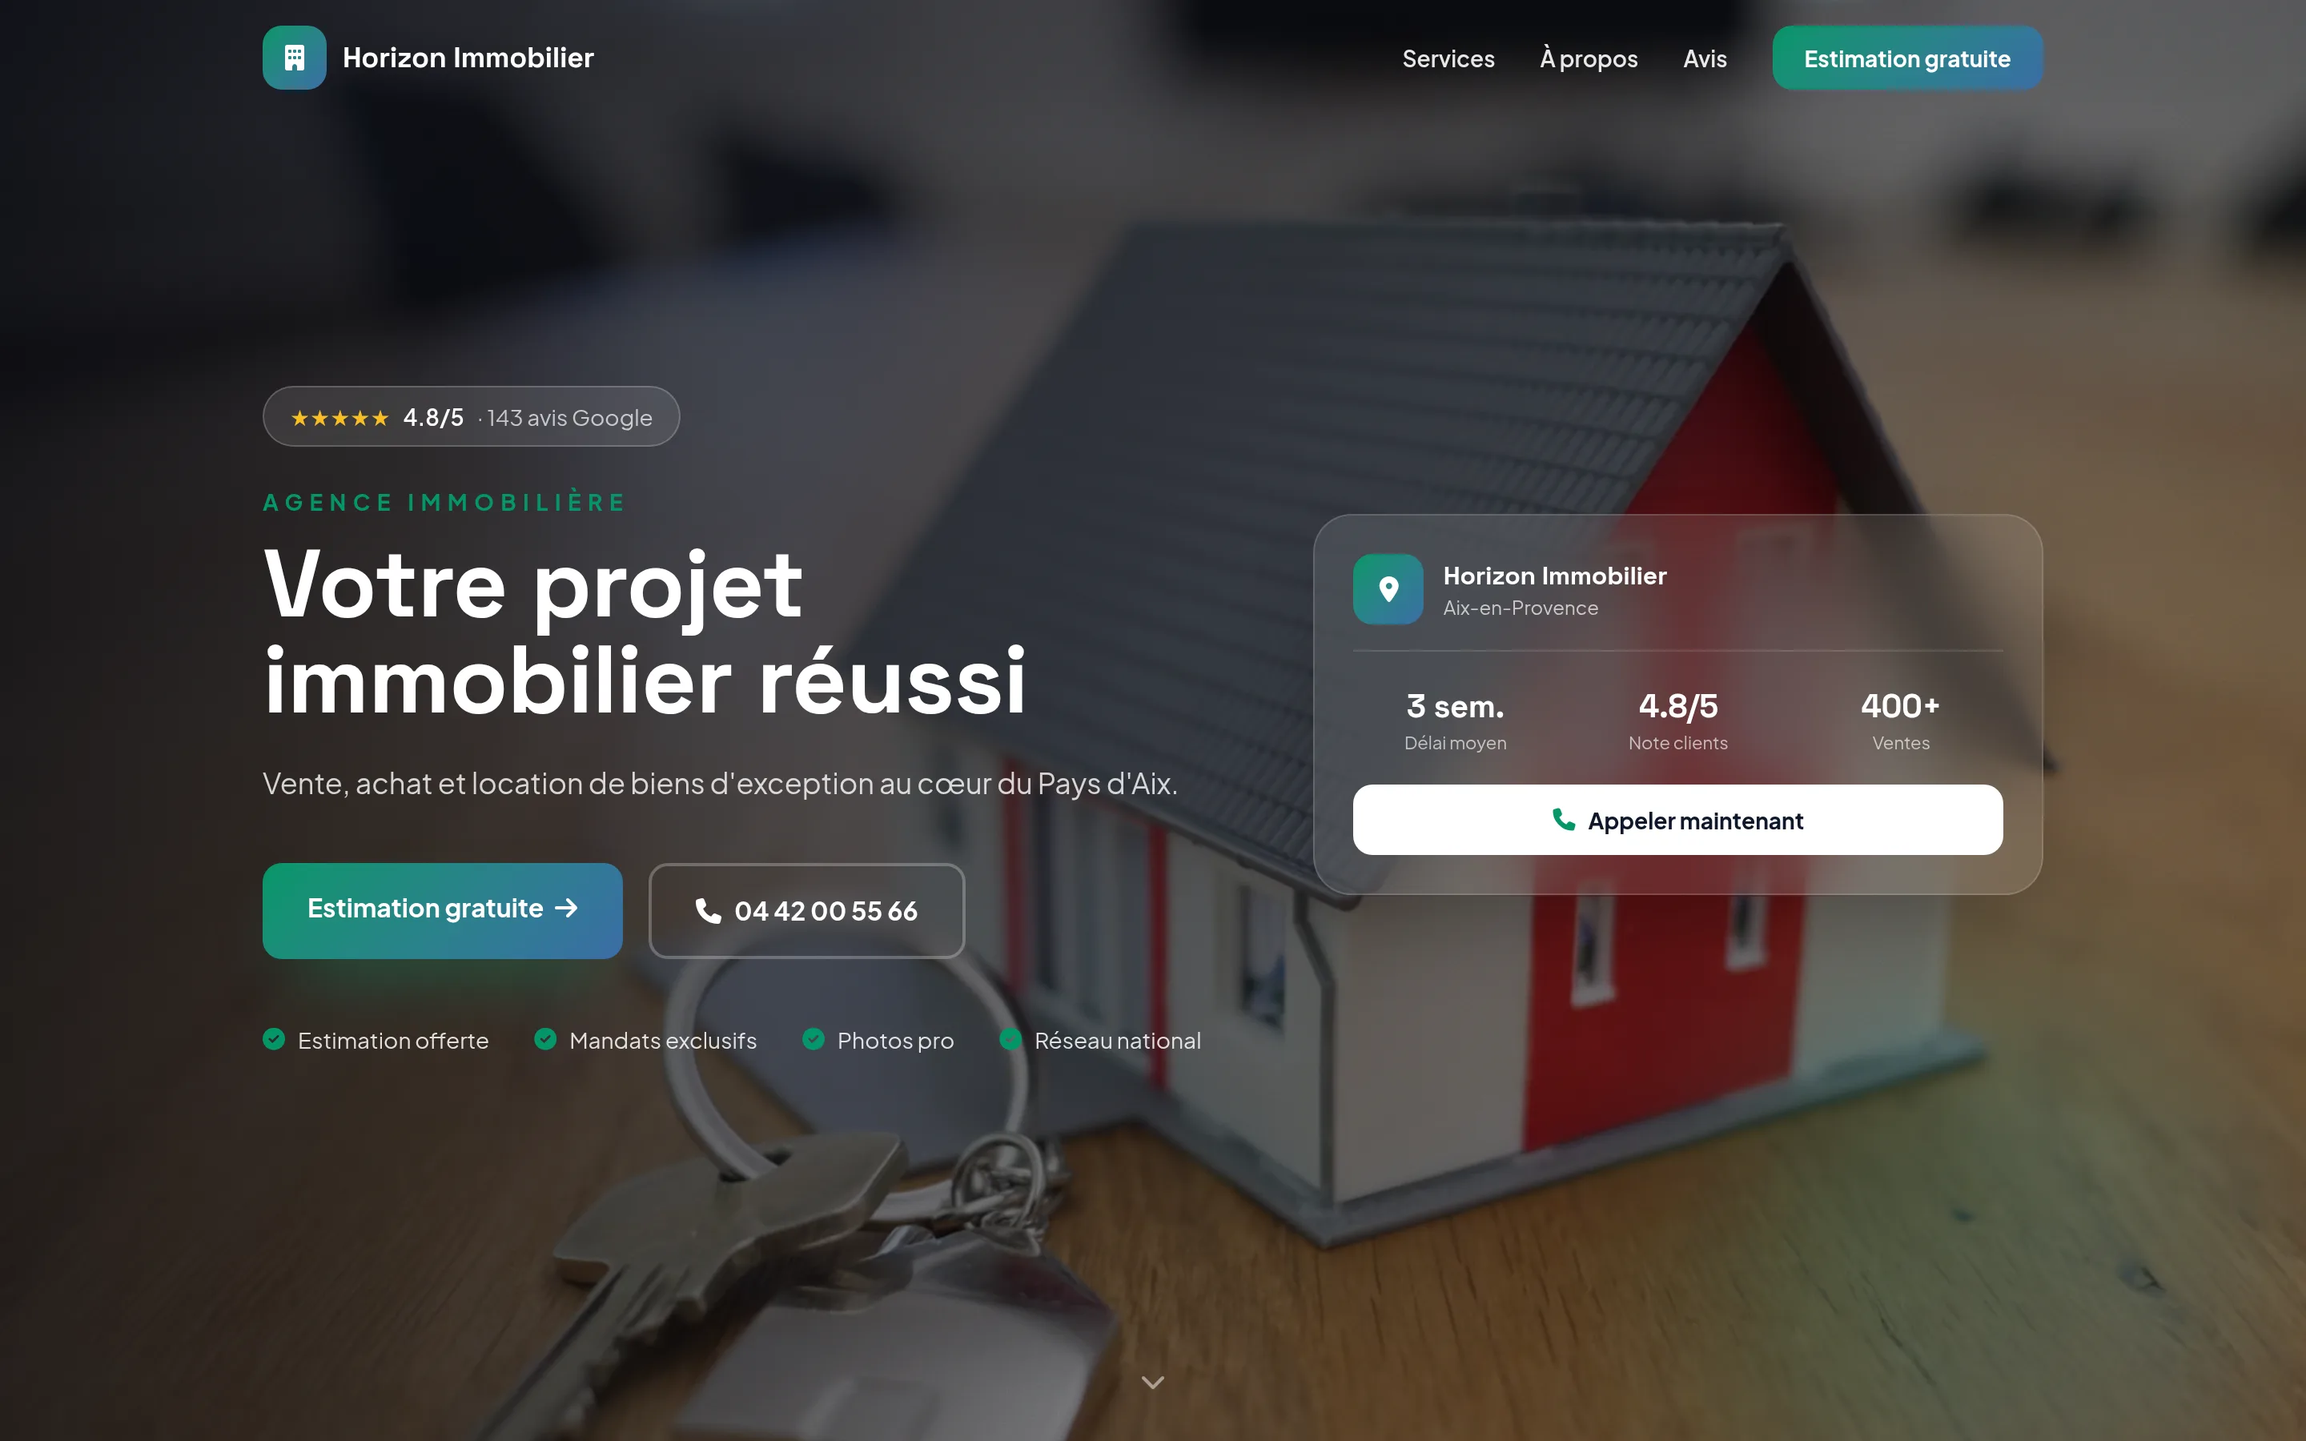
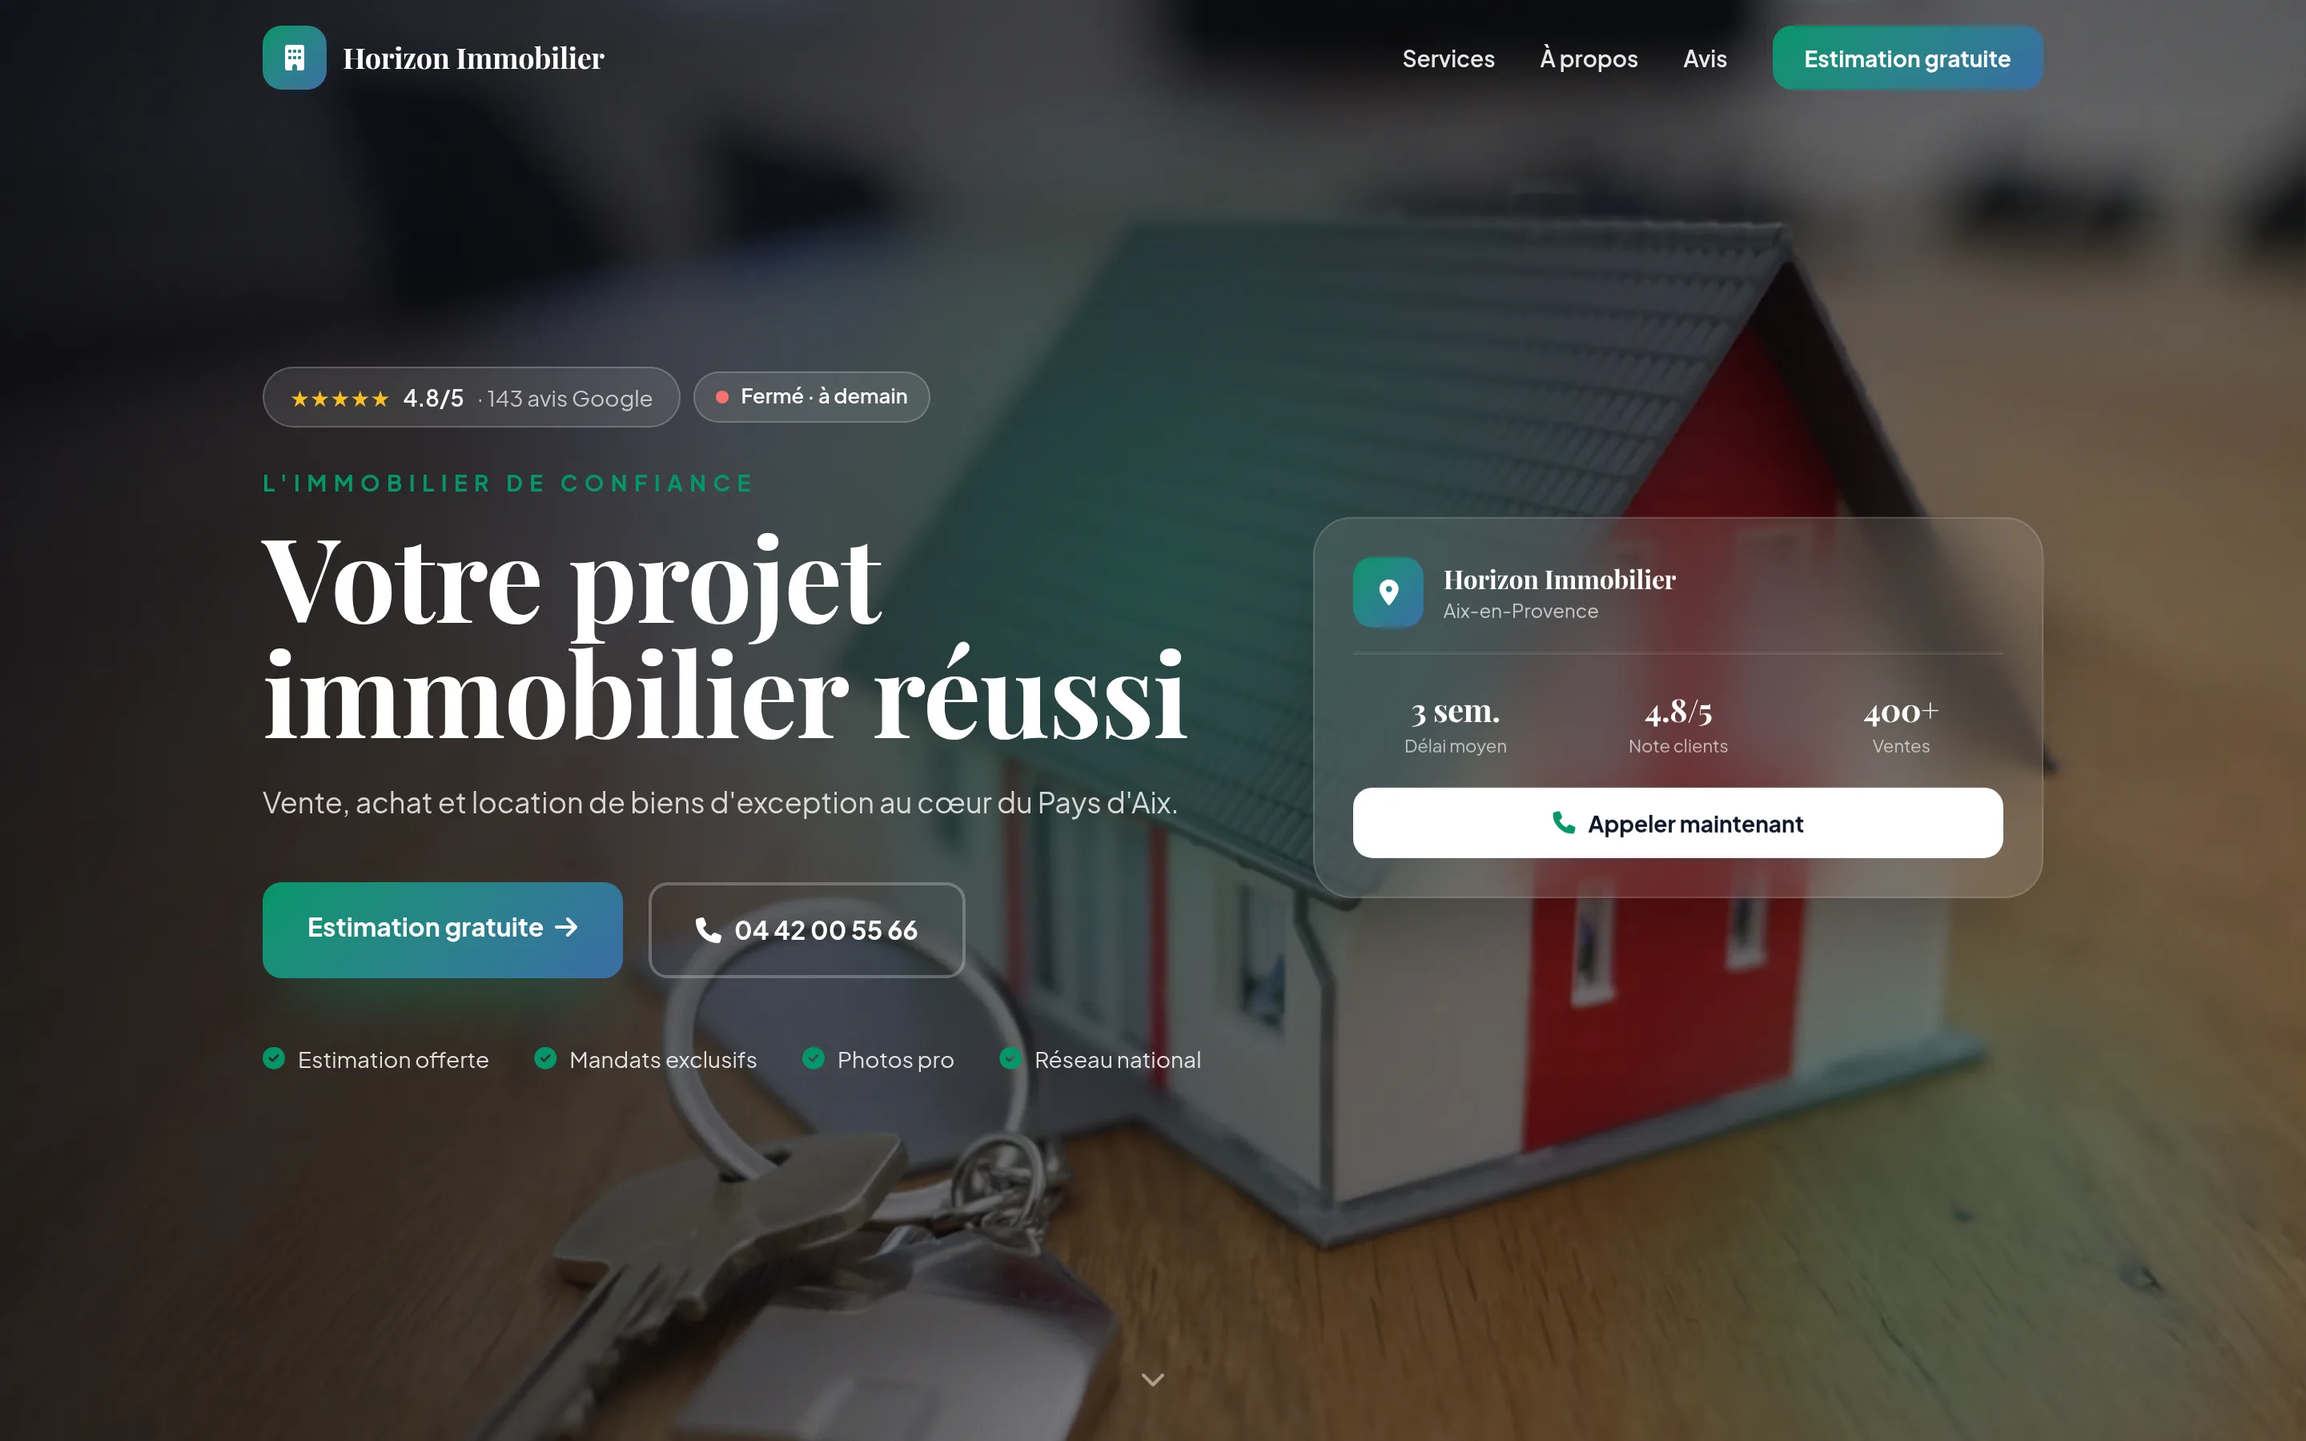
feat(sites): première impression "whaou" — design sectoriel et hero cinématique
Système de design par métier (config/sectors.php) : police de titres,
thème sombre ou clair, mise en page du hero (éditorial / scindé / centré)
et banque de photos haut de gamme en secours.

Hero :
- Photo de la fiche Google choisie intelligemment (paysage, HD, ≥ 800 px),
  chargement flou → net (miniature LQIP), effet Ken Burns, halo qui suit le
  curseur, rideau d'entrée avec le monogramme, apparition en cascade.
- Pastille « Ouvert · ferme à 22h00 / Fermé · ouvre à 12h00 » calculée en
  direct depuis les horaires Google.
- Compteurs animés sur les chiffres clés, bouton principal avec reflet.
- Variante scindée : photo éditoriale flottante + badge note ; variante
  centrée : bandeau de chiffres ; variante éditoriale : carte flottante.
- Thème sombre complet (restaurant, hébergement, automobile).

Accroches IA plus fortes (sensation / spécialité / lieu, sans clichés).
Captures de la vitrine (landing) régénérées avec le nouveau design.

Claude-Session: https://claude.ai/code/session_0144QwNrSxvs33smeyFukKN1

diff --git a/resources/js/Pages/SiteEditor.vue b/resources/js/Pages/SiteEditor.vue
@@ -375,7 +375,7 @@ const statusLabel = computed(() => ({ idle: '', saving: 'Enregistrement…', sav
                     <div>
                         <p class="font-display font-bold text-white">Police des titres</p>
                         <div class="mt-3 grid grid-cols-2 gap-2">
-                            <button v-for="f in fonts" :key="f" @click="setFont(f)" class="rounded-xl border px-3 py-2.5 text-left text-sm transition" :class="(st.font||'Space Grotesk')===f ? 'border-brand-400 bg-brand-500/10 text-white' : 'border-white/10 text-slate-300 hover:border-white/25'" :style="{ fontFamily: `'${f}', sans-serif` }">{{ f }}</button>
+                            <button v-for="f in fonts" :key="f" @click="setFont(f)" class="rounded-xl border px-3 py-2.5 text-left text-sm transition" :class="(st.font||st.defaults?.font||'Space Grotesk')===f ? 'border-brand-400 bg-brand-500/10 text-white' : 'border-white/10 text-slate-300 hover:border-white/25'" :style="{ fontFamily: `'${f}', sans-serif` }">{{ f }}</button>
                         </div>
                     </div>
                     <p class="text-xs text-slate-500">Les changements de style s'appliquent à tout le site instantanément.</p>

diff --git a/config/sectors.php b/config/sectors.php
@@ -1,22 +1,58 @@
 <?php
 
 // Identité visuelle + libellés par secteur (le contenu texte est généré par l'IA).
-// couleur = accent principal ; label = nom lisible ; icon = Font Awesome ; cta = libellé bouton.
+//  color  = accent principal      label = nom lisible      icon = Font Awesome      cta = libellé bouton
+//  font   = police des titres (Google Fonts)   theme = dark|light   hero = editorial|split|center
+//  stock  = photos de secours haut de gamme si la fiche Google n'en fournit pas d'assez belles
+$u = fn (string $id) => "https://images.unsplash.com/photo-$id?w=1920&q=82&auto=format&fit=crop";
+
 return [
-    'renovation'  => ['label' => 'Rénovation & Énergie', 'color' => '#ea580c', 'icon' => 'fa-house-chimney', 'cta' => 'Devis gratuit'],
-    'artisan'     => ['label' => 'Artisan', 'color' => '#f59e0b', 'icon' => 'fa-screwdriver-wrench', 'cta' => 'Demander un devis'],
-    'restaurant'  => ['label' => 'Restaurant', 'color' => '#e11d48', 'icon' => 'fa-utensils', 'cta' => 'Réserver'],
-    'hebergement' => ['label' => 'Hébergement', 'color' => '#0d9488', 'icon' => 'fa-bed', 'cta' => 'Réserver'],
-    'sante'       => ['label' => 'Santé', 'color' => '#0d9488', 'icon' => 'fa-stethoscope', 'cta' => 'Prendre RDV'],
-    'bienetre'    => ['label' => 'Bien-être', 'color' => '#7c3aed', 'icon' => 'fa-spa', 'cta' => 'Prendre RDV'],
-    'beaute'      => ['label' => 'Beauté', 'color' => '#db2777', 'icon' => 'fa-scissors', 'cta' => 'Prendre RDV'],
-    'automobile'  => ['label' => 'Automobile', 'color' => '#2563eb', 'icon' => 'fa-car', 'cta' => 'Devis gratuit'],
-    'avocat'      => ['label' => "Cabinet d'avocats", 'color' => '#334155', 'icon' => 'fa-scale-balanced', 'cta' => 'Consultation'],
-    'immobilier'  => ['label' => 'Agence immobilière', 'color' => '#059669', 'icon' => 'fa-building', 'cta' => 'Estimation gratuite'],
-    'assurance'   => ['label' => 'Assurances', 'color' => '#0284c7', 'icon' => 'fa-shield-halved', 'cta' => 'Devis gratuit'],
-    'comptable'   => ['label' => 'Expertise comptable', 'color' => '#4f46e5', 'icon' => 'fa-calculator', 'cta' => 'Devis gratuit'],
-    'architecte'  => ['label' => 'Architecture', 'color' => '#0f172a', 'icon' => 'fa-compass-drafting', 'cta' => 'Parler du projet'],
-    'conseil'     => ['label' => 'Conseil', 'color' => '#7c3aed', 'icon' => 'fa-lightbulb', 'cta' => 'Échanger'],
-    'commerce'    => ['label' => 'Commerce', 'color' => '#16a34a', 'icon' => 'fa-store', 'cta' => 'Nous contacter'],
-    'service'     => ['label' => 'Services', 'color' => '#4f46e5', 'icon' => 'fa-handshake', 'cta' => 'Devis gratuit'],
+    'renovation'  => ['label' => 'Rénovation & Énergie', 'color' => '#ea580c', 'icon' => 'fa-house-chimney', 'cta' => 'Devis gratuit',
+        'font' => 'Sora', 'theme' => 'light', 'hero' => 'split',
+        'stock' => [$u('1504307651254-35680f356dfd'), $u('1581094794329-c8112a89af12'), $u('1600585154340-be6161a56a0c')]],
+    'artisan'     => ['label' => 'Artisan', 'color' => '#f59e0b', 'icon' => 'fa-screwdriver-wrench', 'cta' => 'Demander un devis',
+        'font' => 'Sora', 'theme' => 'light', 'hero' => 'split',
+        'stock' => [$u('1504148455328-c376907d081c'), $u('1581244277943-fe4a9c777189'), $u('1523413651479-597eb2da0ad6')]],
+    'restaurant'  => ['label' => 'Restaurant', 'color' => '#e11d48', 'icon' => 'fa-utensils', 'cta' => 'Réserver',
+        'font' => 'Playfair Display', 'theme' => 'dark', 'hero' => 'editorial',
+        'stock' => [$u('1517248135467-4c7edcad34c4'), $u('1414235077428-338989a2e8c0'), $u('1552566626-52f8b828add9')]],
+    'hebergement' => ['label' => 'Hébergement', 'color' => '#0d9488', 'icon' => 'fa-bed', 'cta' => 'Réserver',
+        'font' => 'Cormorant Garamond', 'theme' => 'dark', 'hero' => 'editorial',
+        'stock' => [$u('1566073771259-6a8506099945'), $u('1582719478250-c89cae4dc85b'), $u('1520250497591-112f2f40a3f4')]],
+    'sante'       => ['label' => 'Santé', 'color' => '#0d9488', 'icon' => 'fa-stethoscope', 'cta' => 'Prendre RDV',
+        'font' => 'Sora', 'theme' => 'light', 'hero' => 'center',
+        'stock' => [$u('1519494026892-80bbd2d6fd0d'), $u('1600334129128-685c5582fd35'), $u('1512678080530-7760d81faba6')]],
+    'bienetre'    => ['label' => 'Bien-être', 'color' => '#7c3aed', 'icon' => 'fa-spa', 'cta' => 'Prendre RDV',
+        'font' => 'Cormorant Garamond', 'theme' => 'light', 'hero' => 'split',
+        'stock' => [$u('1544161515-4ab6ce6db874'), $u('1540555700478-4be289fbecef'), $u('1519823551278-64ac92734fb1')]],
+    'beaute'      => ['label' => 'Beauté', 'color' => '#db2777', 'icon' => 'fa-scissors', 'cta' => 'Prendre RDV',
+        'font' => 'DM Serif Display', 'theme' => 'light', 'hero' => 'split',
+        'stock' => [$u('1560066984-138dadb4c035'), $u('1600948836101-f9ffda59d250'), $u('1522337660859-02fbefca4d79')]],
+    'automobile'  => ['label' => 'Automobile', 'color' => '#2563eb', 'icon' => 'fa-car', 'cta' => 'Devis gratuit',
+        'font' => 'Sora', 'theme' => 'dark', 'hero' => 'split',
+        'stock' => [$u('1486262715619-67b85e0b08d3'), $u('1487754180451-c456f25b8f8f'), $u('1625047509248-ec889cbff17f')]],
+    'avocat'      => ['label' => "Cabinet d'avocats", 'color' => '#334155', 'icon' => 'fa-scale-balanced', 'cta' => 'Consultation',
+        'font' => 'Playfair Display', 'theme' => 'light', 'hero' => 'center',
+        'stock' => [$u('1589829545856-d10d557cf95f'), $u('1505664194779-8beaceb93744'), $u('1521791055366-0d553872125f')]],
+    'immobilier'  => ['label' => 'Agence immobilière', 'color' => '#059669', 'icon' => 'fa-building', 'cta' => 'Estimation gratuite',
+        'font' => 'Playfair Display', 'theme' => 'light', 'hero' => 'editorial',
+        'stock' => [$u('1560518883-ce09059eeffa'), $u('1600607687939-ce8a6c25118c'), $u('1600566753086-00f18fb6b3ea')]],
+    'assurance'   => ['label' => 'Assurances', 'color' => '#0284c7', 'icon' => 'fa-shield-halved', 'cta' => 'Devis gratuit',
+        'font' => 'Sora', 'theme' => 'light', 'hero' => 'center',
+        'stock' => [$u('1450101499163-c8848c66ca85'), $u('1554224155-6726b3ff858f'), $u('1521791136064-7986c2920216')]],
+    'comptable'   => ['label' => 'Expertise comptable', 'color' => '#4f46e5', 'icon' => 'fa-calculator', 'cta' => 'Devis gratuit',
+        'font' => 'Sora', 'theme' => 'light', 'hero' => 'center',
+        'stock' => [$u('1554224155-8d04cb21cd6c'), $u('1454165804606-c3d57bc86b40'), $u('1553877522-43269d4ea984')]],
+    'architecte'  => ['label' => 'Architecture', 'color' => '#0f172a', 'icon' => 'fa-compass-drafting', 'cta' => 'Parler du projet',
+        'font' => 'Space Grotesk', 'theme' => 'light', 'hero' => 'editorial',
+        'stock' => [$u('1503387762-592deb58ef4e'), $u('1600585154526-990dced4db0d'), $u('1481253127861-534371bd1ad3')]],
+    'conseil'     => ['label' => 'Conseil', 'color' => '#7c3aed', 'icon' => 'fa-lightbulb', 'cta' => 'Échanger',
+        'font' => 'Sora', 'theme' => 'light', 'hero' => 'center',
+        'stock' => [$u('1600880292203-757bb62b4baf'), $u('1552664730-d307ca884978'), $u('1556761175-b413da4baf72')]],
+    'commerce'    => ['label' => 'Commerce', 'color' => '#16a34a', 'icon' => 'fa-store', 'cta' => 'Nous contacter',
+        'font' => 'Space Grotesk', 'theme' => 'light', 'hero' => 'split',
+        'stock' => [$u('1441986300917-64674bd600d8'), $u('1472851294608-062f824d29cc'), $u('1556742049-0cfed4f6a45d')]],
+    'service'     => ['label' => 'Services', 'color' => '#4f46e5', 'icon' => 'fa-handshake', 'cta' => 'Devis gratuit',
+        'font' => 'Space Grotesk', 'theme' => 'light', 'hero' => 'split',
+        'stock' => [$u('1497366216548-37526070297c'), $u('1521737604893-d14cc237f11d'), $u('1556761175-5973dc0f32e7')]],
 ];

diff --git a/app/Services/GooglePlaces.php b/app/Services/GooglePlaces.php
@@ -132,10 +132,15 @@ class GooglePlaces
                 'rating' => $rv['rating'] ?? 5,
                 'text'   => $rv['text'] ?? '',
             ])->take(6)->values()->all(),
-            'photos'        => collect($r['photos'] ?? [])->take(10)->map(
-                fn ($p) => 'https://maps.googleapis.com/maps/api/place/photo?maxwidth=1600&photo_reference='
-                    .$p['photo_reference'].'&key='.$this->key
-            )->all(),
+            // Photos triées pour la première impression : paysage et haute résolution d'abord,
+            // les visuels trop petits (< 800 px) sont écartés.
+            'photos'        => collect($r['photos'] ?? [])
+                ->filter(fn ($p) => (int) ($p['width'] ?? 0) >= 800)
+                ->sortByDesc(fn ($p) => (($p['width'] ?? 0) >= ($p['height'] ?? 1) ? 1_000_000_000 : 0) + (int) ($p['width'] ?? 0) * (int) ($p['height'] ?? 0))
+                ->take(10)->values()->map(
+                    fn ($p) => 'https://maps.googleapis.com/maps/api/place/photo?maxwidth=1600&photo_reference='
+                        .$p['photo_reference'].'&key='.$this->key
+                )->all(),
         ];
     }
 }

diff --git a/app/Services/GeminiContent.php b/app/Services/GeminiContent.php
@@ -40,8 +40,8 @@ Extraits d'avis clients :
 
 Réponds UNIQUEMENT avec un JSON valide de cette forme exacte :
 {
-  "hero_title": "titre d'accroche fort et spécifique au métier (max 8 mots, PAS juste le nom de l'établissement)",
-  "hero_subtitle": "sous-titre percutant qui donne envie (max 18 mots)",
+  "hero_title": "accroche émotionnelle et spécifique (max 7 mots) : évoque une sensation, la spécialité ou le lieu. INTERDIT : 'Bienvenue', 'qualité', 'professionnel', 'votre partenaire', le nom de l'établissement seul",
+  "hero_subtitle": "sous-titre concret qui donne envie d'agir : ce qu'on y trouve, pour qui, où (max 18 mots)",
   "tagline": "slogan court (max 6 mots)",
   "about_p1": "1er paragraphe présentation, concret et rassurant (2-3 phrases)",
   "about_p2": "2e paragraphe, sur l'engagement / la méthode (2-3 phrases)",

diff --git a/app/Http/Controllers/SiteEditorController.php b/app/Http/Controllers/SiteEditorController.php
@@ -238,7 +238,7 @@ class SiteEditorController extends Controller
             'accent'   => $d['accent'] ?? $cfg['color'],
             'font'     => $d['font'] ?? null,
             'modules'  => $site->modules ?: ['booking' => true],
-            'defaults' => ['cta' => $cfg['cta'], 'label' => $cfg['label'], 'color' => $cfg['color']],
+            'defaults' => ['cta' => $cfg['cta'], 'label' => $cfg['label'], 'color' => $cfg['color'], 'font' => $cfg['font'] ?? 'Space Grotesk', 'theme' => $cfg['theme'] ?? 'light'],
             'live_url' => 'https://'.$site->slug.'.joow.fr',
             'version'  => optional($site->updated_at)->timestamp ?? now()->timestamp,
         ];

diff --git a/app/Services/SiteRenderer.php b/app/Services/SiteRenderer.php
@@ -52,6 +52,13 @@ class SiteRenderer
             'mapsKey'  => (string) config('services.google_places.key'),
             'slug'     => $site->slug,
             'editMode' => $editMode,
+            // Système de design sectoriel (police, thème, mise en page du hero, photos de secours)
+            'design'   => [
+                'font'  => $cfg['font'] ?? 'Space Grotesk',
+                'theme' => $data['theme'] ?? ($cfg['theme'] ?? 'light'),
+                'hero'  => $data['hero_style'] ?? ($cfg['hero'] ?? 'editorial'),
+                'stock' => $cfg['stock'] ?? [],
+            ],
         ])->render();
     }
 

diff --git a/scripts/render_showcase.php b/scripts/render_showcase.php
@@ -242,6 +242,7 @@ foreach ($scenarios as $sector => $s) {
         'b' => $b, 'c' => $s['c'], 'sector' => $sector,
         'label' => $cfg['label'], 'color' => $cfg['color'], 'icon' => $cfg['icon'], 'cta' => $cfg['cta'],
         'mapsKey' => '', 'slug' => $sector.'-demo',
+        'design' => ['font' => $cfg['font'] ?? 'Space Grotesk', 'theme' => $cfg['theme'] ?? 'light', 'hero' => $cfg['hero'] ?? 'editorial', 'stock' => $cfg['stock'] ?? []],
     ])->render();
     file_put_contents("$out/$sector.html", $html);
     echo "rendered $sector (".strlen($html)." bytes)\n";
